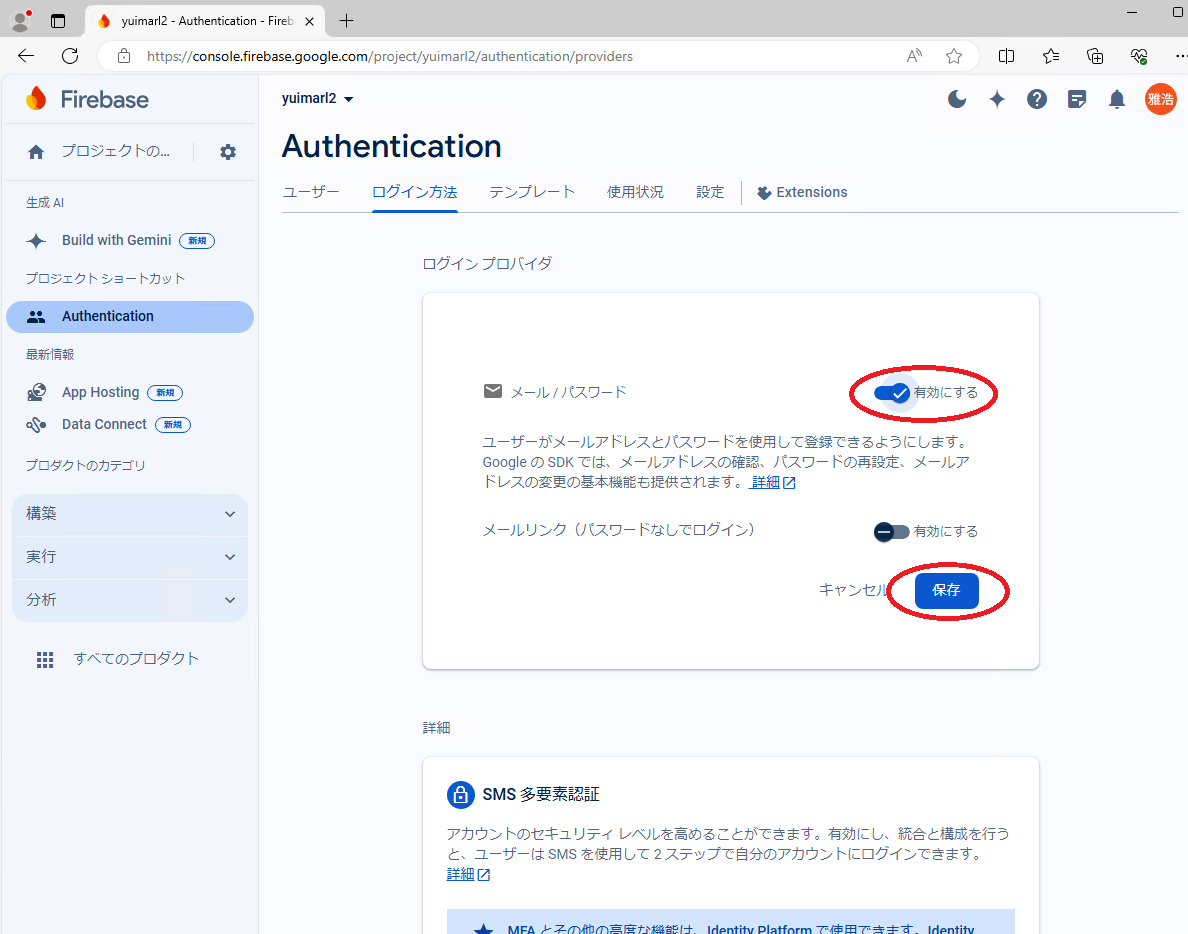
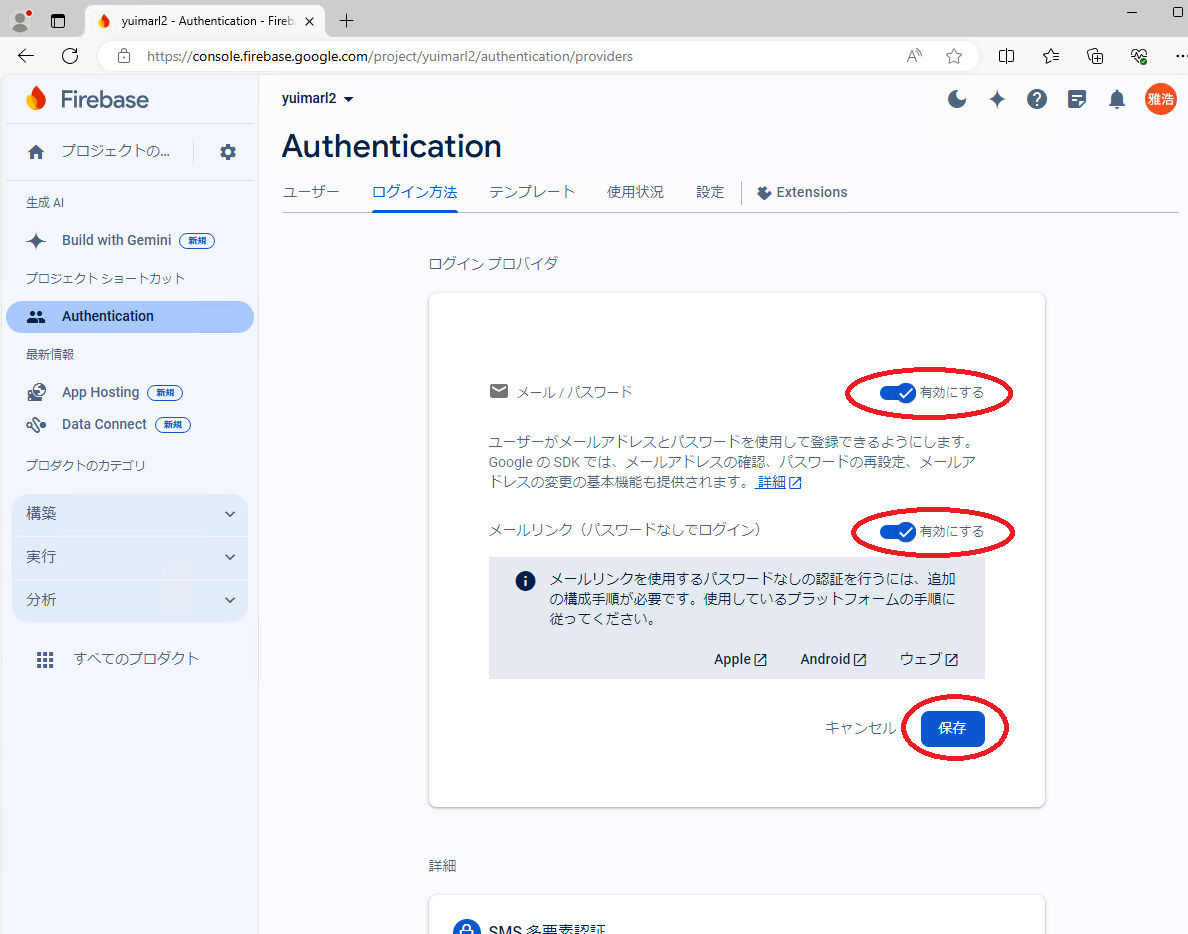
update

diff --git a/deploy.html b/deploy.html
@@ -53,6 +53,8 @@
                     <hr>
                     <section class="pb-2">
                       <h3 id="step01">Google Cloud プロジェクトを作成する</h3>
+                      <p><a href="https://www.google.com/intl/ja/account/about/" target="_blank">Google アカウント</a>をお持ちでない場合は、取得してください。</p>
+                      <p><a href="https://cloud.google.com/sdk/docs/install?hl=ja" target="_blank">gcloud CLI</a>&nbsp;をインストールしてください。</p>
                       <p>次のコマンドで、Yuimarl 用の Google Cloud プロジェクトを作成してください。（&lt;project-id&gt;の箇所は、作成するプロジェクトのID）</p><code>gcloud projects create &lt;project-id&gt;</code><br><br>
                       <p>プロジェクトを作成したら、次のコマンドを実行してください。</p><code>gcloud config set project &lt;project-id&gt;</code><br><br><code>gcloud auth application-default login</code><br><br><a href="images/screen41.png"><img class="border border-info border-1 img-fluid" src="images/screen41.png"></a>
                     </section>
@@ -68,7 +70,7 @@
                       <p>「構築」の中の「Authentication」をクリックします。<a href="images/screen10.png"><img class="border border-info border-1 img-fluid" src="images/screen10.png"></a></p>
                       <p>「Authentication」の「始める」をクリックします。<a href="images/screen11.png"><img class="border border-info border-1 img-fluid" src="images/screen11.png"></a></p>
                       <p>「ログイン方法」の「メール / パスワード」をクリックします。<a href="images/screen12.png"><img class="border border-info border-1 img-fluid" src="images/screen12.png"></a></p>
-                      <p>「メール / パスワード」を「有効にする」にして「保存」をクリックします。<a href="images/screen13.png"><img class="border border-info border-1 img-fluid" src="images/screen13.png"></a></p>
+                      <p>「メール / パスワード」と「メールリンク（パスワードなしでログイン）」を「有効にする」にして「保存」をクリックします。<a href="images/screen13.png"><img class="border border-info border-1 img-fluid" src="images/screen13.png"></a></p>
                       <p>「新しいプロバイダを追加」をクリックします。<a href="images/screen14.png"><img class="border border-info border-1 img-fluid" src="images/screen14.png"></a></p>
                       <p>「Google」をクリックします。<a href="images/screen15.png"><img class="border border-info border-1 img-fluid" src="images/screen15.png"></a></p>
                       <p>「Google」を「有効にする」にし、サポートメールを選択して「保存」をクリックします。<a href="images/screen16.png"><img class="border border-info border-1 img-fluid" src="images/screen16.png"></a><br>必要に応じて、他のプロバイダも追加してください。</p>
@@ -85,14 +87,14 @@
                     <hr>
                     <section class="pb-2">
                       <h3 id="step03">Cloud Run を設定する</h3>
-                      <p><a href="https://console.cloud.google.com">Google Cloud コンソール</a>にログインして「プロジェクトの選択」をクリックします。<a href="images/screen26.png"><img class="border border-info border-1 img-fluid" src="images/screen26.png"></a></p>
+                      <p><a href="https://console.cloud.google.com" target="_blank">Google Cloud コンソール</a>にログインして「プロジェクトの選択」をクリックします。<a href="images/screen26.png"><img class="border border-info border-1 img-fluid" src="images/screen26.png"></a></p>
                       <p>作成済みのプロジェクトを選択します。<a href="images/screen27.png"><img class="border border-info border-1 img-fluid" src="images/screen27.png"></a></p>
                       <p>「すべてのプロダクトを表示」を選択します。<a href="images/screen44.png"><img class="border border-info border-1 img-fluid" src="images/screen44.png"></a></p>
                       <p>「サーバーレス」の「Cloud Run」を選択します。<a href="images/screen45.png"><img class="border border-info border-1 img-fluid" src="images/screen45.png"></a></p>
                       <p>「サービスを作成」をクリックします。<a href="images/screen29.png"><img class="border border-info border-1 img-fluid" src="images/screen29.png"></a></p>
                       <p>「課金を有効にして Cloud Run の使用を継続します」画面が表示された場合は、「[お支払い]に移動」をクリックして支払いの設定を行います。<a href="images/screen30.png"><img class="border border-info border-1 img-fluid" src="images/screen30.png"></a></p>
                       <p>「サービスを作成」で次の画像のように設定します。<br>（&nbsp;「コンテナイメージのURL」は、<a href="https://hub.docker.com/repository/docker/masahironitta/yuimarl/general" target="_blank">Docker Hub</a>&nbsp;に登録されている最新のイメージを設定します）<a href="images/screen31.png"><img class="border border-info border-1 img-fluid" src="images/screen31.png"></a>
-                        <div class="alert alert-primary" role="alert">現在の最新イメージは、<br><b>masahironitta/yuimarl:0.0.19</b><br>です。<br><a href="https://hub.docker.com/repository/docker/masahironitta/yuimarl/general" target="_blank">Yuimarl Docker Hub レジストリ</a></div>
+                        <div class="alert alert-primary" role="alert">現在の最新イメージは、<br><b>masahironitta/yuimarl:0.0.26</b><br>です。<br><a href="https://hub.docker.com/repository/docker/masahironitta/yuimarl/general" target="_blank">Yuimarl Docker Hub レジストリ</a></div>
                       </p>
                       <p>「コンテナ、ボリューム、ネットワーキング、セキュリティ」の「コンテナ」の「設定」にある「ヘルスチェックを追加します」をクリックします。<a href="images/screen48.png"><img class="border border-info border-1 img-fluid" src="images/screen48.png"></a></p>
                       <p>「ライブネスチェック」と「HTTP」を選択し、パスに「/health」と入力し、「追加」をクリックします。<a href="images/screen43.png"><img class="border border-info border-1 img-fluid" src="images/screen43.png"></a></p>
@@ -139,7 +141,7 @@
                       </p>
                       <p>「作成」をクリックします。<a href="images/screen46.png"><img class="border border-info border-1 img-fluid" src="images/screen46.png"></a></p>
                       <p>Firebase コンソールの Authentication で、「設定」の「承認済みドメイン」で、「ドメインの追加」をクリックします。<a href="images/screen50.png"><img class="border border-info border-1 img-fluid" src="images/screen50.png"></a></p>
-                      <p>Cloud Run の URL に表示されたドメインを入力して、「追加」をクリックします。<a href="images/screen51.png"><img class="border border-info border-1 img-fluid" src="images/screen51.png"></a></p>
+                      <p>Cloud Run の URL に表示されたドメインを入力して、「追加」をクリックします。（&nbsp;「https://」は削除してください）<a href="images/screen51.png"><img class="border border-info border-1 img-fluid" src="images/screen51.png"></a></p>
                       <p>本番環境として使う場合は、Authentication の「設定」の「承認済みドメイン」から、「localhost」を削除してください。<br>開発環境、テスト環境として使う場合は、「localhost」を残したままで大丈夫です。<a href="images/screen38.png"><img class="border border-info border-1 img-fluid" src="images/screen38.png"></a></p>
                       <p>Cloud Run の URL にアクセスします。<a href="images/screen33.png"><img class="border border-info border-1 img-fluid" src="images/screen33.png"></a></p>
                       <p>Yuimarl ログイン画面でログインします。<a href="images/screen34.png"><img class="border border-info border-1 img-fluid" src="images/screen34.png"></a></p>

diff --git a/howtouse.html b/howtouse.html
@@ -32,9 +32,69 @@
             </div>
             <div class="row">
               <div class="col-md-9">
-                <section>
-                  <h2 class="pt-3 pb-1">使い方</h2>
-                  <p>工事中</p>
+                <section class="pt-3">
+                  <h2 class="pb-1">使い方</h2>
+                  <ol class="pb-2">
+                    <li><a href="#prj">プロジェクト</a>
+                      <ol class="pb-2">
+                        <li><a href="#prjadd">プロジェクトを作成する</a></li>
+                        <li><a href="#prjlst">プロジェクト一覧</a></li>
+                        <li><a href="#prjupd">プロジェクトを更新する</a></li>
+                        <li><a href="#prjdel">プロジェクトを削除する</a></li>
+                      </ol>
+                    </li>
+                    <li><a href="#tkt">チケット</a>
+                      <ol class="pb-2">
+                        <li><a href="#tktadd">チケットを作成する</a></li>
+                        <li><a href="#tktlst">チケット一覧</a></li>
+                        <li><a href="#tktupd">チケットを更新する</a></li>
+                        <li><a href="#tktdel">チケットを削除する</a></li>
+                      </ol>
+                    </li>
+                    <li><a href="#mkd">マークダウンの入力</a></li>
+                  </ol>
+                </section>
+                <hr>
+                <section class="pb-2">
+                  <h3 id="prj">プロジェクト</h3>
+                  <section class="pb-2">
+                    <h4 id="prjadd">プロジェクトを作成する</h4>
+                    <hr>
+                  </section>
+                  <section class="pb-2">
+                    <h4 id="prjlst">プロジェクト一覧</h4>
+                    <hr>
+                  </section>
+                  <section class="pb-2">
+                    <h4 id="prjupd">プロジェクトを更新する</h4>
+                    <hr>
+                  </section>
+                  <section class="pb-2">
+                    <h4 id="prjdel">プロジェクトを削除する</h4>
+                    <hr>
+                  </section>
+                </section>
+                <section class="pb-2">
+                  <h3 id="tkt">チケット</h3>
+                  <section class="pb-2">
+                    <h4 id="tktadd">チケットを作成する</h4>
+                    <hr>
+                  </section>
+                  <section class="pb-2">
+                    <h4 id="tktlst">チケット一覧</h4>
+                    <hr>
+                  </section>
+                  <section class="pb-2">
+                    <h4 id="tktupd">チケットを更新する</h4>
+                    <hr>
+                  </section>
+                  <section class="pb-2">
+                    <h4 id="tktdel">チケットを削除する</h4>
+                    <hr>
+                  </section>
+                </section>
+                <section class="pb-2">
+                  <h3 id="mkd">マークダウンの入力</h3>
                 </section>
               </div>
               <div class="col-md-3">

diff --git a/agreement.html b/agreement.html
@@ -32,10 +32,19 @@
             </div>
             <div class="row">
               <div class="col-md-9">
-                <section class="pt-3">
-                  <h2 class="pb-1">利用規約</h2>
-                  <p>工事中</p>
-                </section>
+                <div class="container pt-3 pb-1">
+                  <h2>利用規約</h2>
+                  <p>「Yuimarl（ゆいまーる）」（以下、「当システム」と記述します）をお使いいただくためには、以下の利用規約に同意していただく必要があります。</p>
+                </div>
+                <div class="container">
+                  <ol>
+                    <li>運用者（新田システム事務所）は、必要に応じて、当システムに保存されているデータを閲覧する場合があります。部外者、他人に絶対に見られたくない情報は、このシステムに登録しないでください。</li>
+                    <li>データ消失、情報漏洩、一時的または永久的なシステム停止などにより、利用者が不利益をこうむったとしても、運用者は一切の補償を行いません。</li>
+                    <li>当システムにおいて、誹謗中傷、反社会的活動、公序良俗に反する不適切な使用などが発覚した場合は、使用を停止させていただく場合があります。</li>
+                    <li>長期間利用されていないアカウントやデータは、予告なく削除させていただく場合があります。</li>
+                  </ol>
+                  <div class="alert alert-info mb-4" role="alert">利用者が&nbsp;<a href="deploy.html">ご自身でこのシステムのサーバーを運用する方法</a>&nbsp;を公開しています。可能であれば、それによって利用することもご検討ください。</div>
+                </div>
               </div>
               <div class="col-md-3">
                 <div class="submenu mt-3">

diff --git a/index2.html b/index2.html
@@ -68,9 +68,7 @@
                   <ul>
                     <li>メールアドレスまたは Google アカウントでログインする。（Facebook、X、Github、Apple、Yahoo! のアカウントでも、ログインできるようにする予定です）</li>
                     <li>プロジェクトを登録する。</li>
-                    <li>プロジェクトにメンバーを追加する。</li>
-                    <li><small> <span class="badge bg-warning text-dark">開発中</span></small> プロジェクト情報を更新する。</li>
-                    <li><small> <span class="badge bg-warning text-dark">開発中</span></small> チケットを登録する。</li>
+                    <li>チケットを登録する。</li>
                   </ul>
                 </section>
                 <section class="pb-3">
